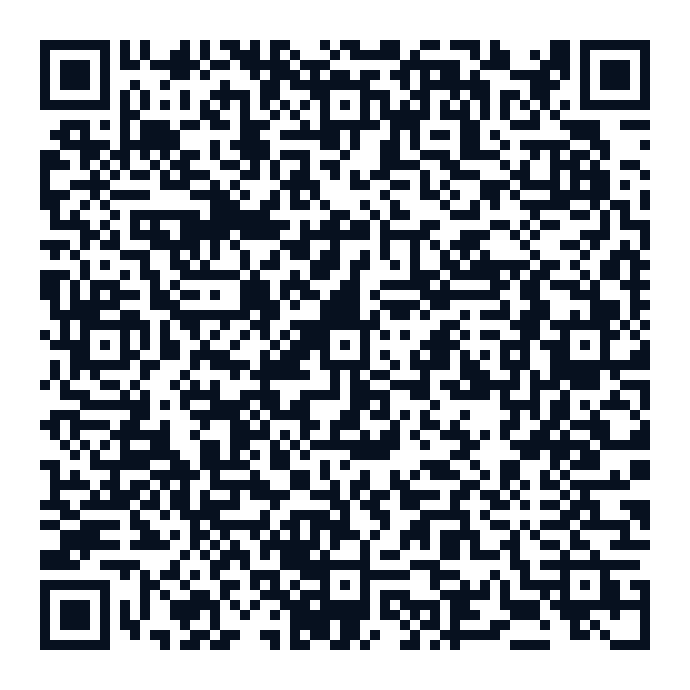
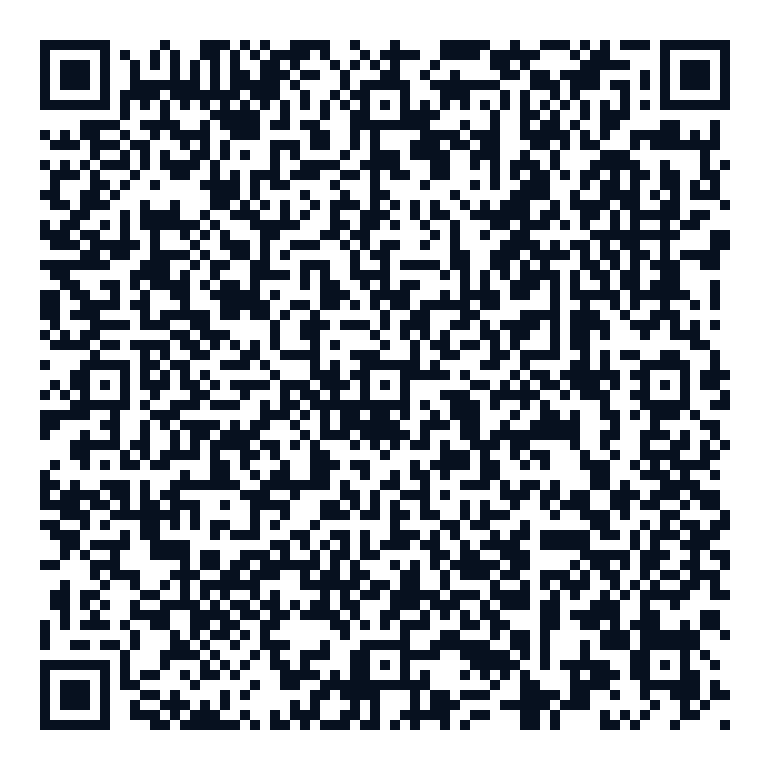
Point demo links and QR to verified browser player

diff --git a/README.md b/README.md
@@ -13,7 +13,7 @@
 ![ESP32](https://img.shields.io/badge/ESP32-telemetry-e7352c?logo=espressif)
 ![Status](https://img.shields.io/badge/status-engineering_prototype-f59e0b)
 
-[▶ Watch the 1:26 prototype video](https://cdn.jsdelivr.net/gh/Om1311gamerz/ConveyorGuard@a1c75846ce285a9000d536d9f285f251aceccb95/docs/media/beltguard-prototype-demo.mp4) · [Run the software demo](#quick-start) · [Architecture](docs/architecture.md) · [Hardware](docs/hardware.md) · [Vision](docs/computer-vision.md) · [API](docs/api.md)
+[▶ Watch the 1:26 prototype video](https://htmlpreview.github.io/?https://raw.githubusercontent.com/Om1311gamerz/ConveyorGuard/53b49690ba643628da0fa19e878c1f435720ac15/docs/video-player/index.html) · [Run the software demo](#quick-start) · [Architecture](docs/architecture.md) · [Hardware](docs/hardware.md) · [Vision](docs/computer-vision.md) · [API](docs/api.md)
 
 ![ConveyorGuard dashboard — explicitly labelled software simulation](docs/images/dashboard-demo.png)
 
@@ -27,27 +27,27 @@ The visual detector is trained; the health/fault layer is a prototype heuristic.
 
 <div align="center">
 
-[![Watch the complete BeltGuard prototype demonstration](docs/images/demo/beltguard-prototype-demo.jpg)](https://cdn.jsdelivr.net/gh/Om1311gamerz/ConveyorGuard@a1c75846ce285a9000d536d9f285f251aceccb95/docs/media/beltguard-prototype-demo.mp4)
+[![Watch the complete BeltGuard prototype demonstration](docs/images/demo/beltguard-prototype-demo.jpg)](https://htmlpreview.github.io/?https://raw.githubusercontent.com/Om1311gamerz/ConveyorGuard/53b49690ba643628da0fa19e878c1f435720ac15/docs/video-player/index.html)
 
-[![Play the 1:26 BeltGuard prototype video](https://img.shields.io/badge/%E2%96%B6%20PLAY%20VIDEO-1%3A26%20PROTOTYPE%20DEMO-e11d48?style=for-the-badge)](https://cdn.jsdelivr.net/gh/Om1311gamerz/ConveyorGuard@a1c75846ce285a9000d536d9f285f251aceccb95/docs/media/beltguard-prototype-demo.mp4)
+[![Play the 1:26 BeltGuard prototype video](https://img.shields.io/badge/%E2%96%B6%20PLAY%20VIDEO-1%3A26%20PROTOTYPE%20DEMO-e11d48?style=for-the-badge)](https://htmlpreview.github.io/?https://raw.githubusercontent.com/Om1311gamerz/ConveyorGuard/53b49690ba643628da0fa19e878c1f435720ac15/docs/video-player/index.html)
 
 **Scan the QR code with a phone camera to open the same video directly:**
 
-<a href="https://cdn.jsdelivr.net/gh/Om1311gamerz/ConveyorGuard@a1c75846ce285a9000d536d9f285f251aceccb95/docs/media/beltguard-prototype-demo.mp4"><img src="docs/images/demo/beltguard-demo-qr.png" width="220" alt="QR code that opens the BeltGuard prototype demo video"></a>
+<a href="https://htmlpreview.github.io/?https://raw.githubusercontent.com/Om1311gamerz/ConveyorGuard/53b49690ba643628da0fa19e878c1f435720ac15/docs/video-player/index.html"><img src="docs/images/demo/beltguard-demo-qr.png" width="220" alt="QR code that opens the BeltGuard prototype demo video"></a>
 
-**[▶ Open the BeltGuard prototype video directly](https://cdn.jsdelivr.net/gh/Om1311gamerz/ConveyorGuard@a1c75846ce285a9000d536d9f285f251aceccb95/docs/media/beltguard-prototype-demo.mp4)**
+**[▶ Open the BeltGuard prototype video directly](https://htmlpreview.github.io/?https://raw.githubusercontent.com/Om1311gamerz/ConveyorGuard/53b49690ba643628da0fa19e878c1f435720ac15/docs/video-player/index.html)**
 
 </div>
 
 The 1 minute 26 second recording combines three prototype views: the physical conveyor and electronics, the live dashboard and telemetry, and the vision-detection display. The repository copy uses browser-compatible 720p H.264 video and AAC audio, with the original recorded audio retained.
 
-The poster, red play button, QR code and direct link all open the same browser video player. The direct URL is pinned to the exact video commit for stable playback. The file is approximately 34.9 MB.
+The poster, red play button, QR code and direct link all open the same browser video player. The URL is pinned to the exact player and video commits for stable playback. The file is approximately 34.9 MB.
 
 > **Evidence boundary:** the video proves an integrated controlled-testbed demonstration. It does not establish detection accuracy, false-alarm rate, latency, industrial safety certification, avoided downtime or mine readiness.
 
 ## Three-minute reviewer path
 
-1. Watch the [working prototype video](https://cdn.jsdelivr.net/gh/Om1311gamerz/ConveyorGuard@a1c75846ce285a9000d536d9f285f251aceccb95/docs/media/beltguard-prototype-demo.mp4).
+1. Watch the [working prototype video](https://htmlpreview.github.io/?https://raw.githubusercontent.com/Om1311gamerz/ConveyorGuard/53b49690ba643628da0fa19e878c1f435720ac15/docs/video-player/index.html).
 2. Scan the [system architecture](#system-architecture) and [project status](#project-status).
 3. Review the [hardware evidence](#hardware-prototype-evidence) and [vision pipeline](docs/computer-vision.md).
 4. Run the labelled software scenario with the [quick start](#quick-start).

diff --git a/docs/demo.md b/docs/demo.md
@@ -4,15 +4,15 @@
 
 <div align="center">
 
-[![Watch the complete BeltGuard prototype recording](images/demo/beltguard-prototype-demo.jpg)](https://cdn.jsdelivr.net/gh/Om1311gamerz/ConveyorGuard@a1c75846ce285a9000d536d9f285f251aceccb95/docs/media/beltguard-prototype-demo.mp4)
+[![Watch the complete BeltGuard prototype recording](images/demo/beltguard-prototype-demo.jpg)](https://htmlpreview.github.io/?https://raw.githubusercontent.com/Om1311gamerz/ConveyorGuard/53b49690ba643628da0fa19e878c1f435720ac15/docs/video-player/index.html)
 
-[![Play the 1:26 BeltGuard prototype video](https://img.shields.io/badge/%E2%96%B6%20PLAY%20VIDEO-1%3A26%20PROTOTYPE%20DEMO-e11d48?style=for-the-badge)](https://cdn.jsdelivr.net/gh/Om1311gamerz/ConveyorGuard@a1c75846ce285a9000d536d9f285f251aceccb95/docs/media/beltguard-prototype-demo.mp4)
+[![Play the 1:26 BeltGuard prototype video](https://img.shields.io/badge/%E2%96%B6%20PLAY%20VIDEO-1%3A26%20PROTOTYPE%20DEMO-e11d48?style=for-the-badge)](https://htmlpreview.github.io/?https://raw.githubusercontent.com/Om1311gamerz/ConveyorGuard/53b49690ba643628da0fa19e878c1f435720ac15/docs/video-player/index.html)
 
 **Scan to open the same video directly:**
 
-<a href="https://cdn.jsdelivr.net/gh/Om1311gamerz/ConveyorGuard@a1c75846ce285a9000d536d9f285f251aceccb95/docs/media/beltguard-prototype-demo.mp4"><img src="images/demo/beltguard-demo-qr.png" width="220" alt="QR code that opens the BeltGuard prototype demo video"></a>
+<a href="https://htmlpreview.github.io/?https://raw.githubusercontent.com/Om1311gamerz/ConveyorGuard/53b49690ba643628da0fa19e878c1f435720ac15/docs/video-player/index.html"><img src="images/demo/beltguard-demo-qr.png" width="220" alt="QR code that opens the BeltGuard prototype demo video"></a>
 
-**[▶ Open the BeltGuard prototype video directly](https://cdn.jsdelivr.net/gh/Om1311gamerz/ConveyorGuard@a1c75846ce285a9000d536d9f285f251aceccb95/docs/media/beltguard-prototype-demo.mp4)**
+**[▶ Open the BeltGuard prototype video directly](https://htmlpreview.github.io/?https://raw.githubusercontent.com/Om1311gamerz/ConveyorGuard/53b49690ba643628da0fa19e878c1f435720ac15/docs/video-player/index.html)**
 
 </div>
 
